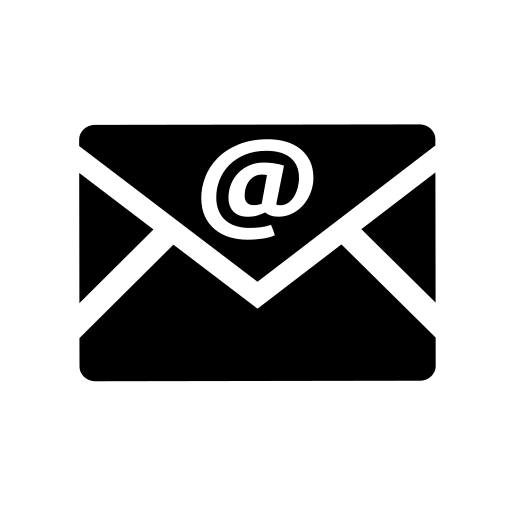
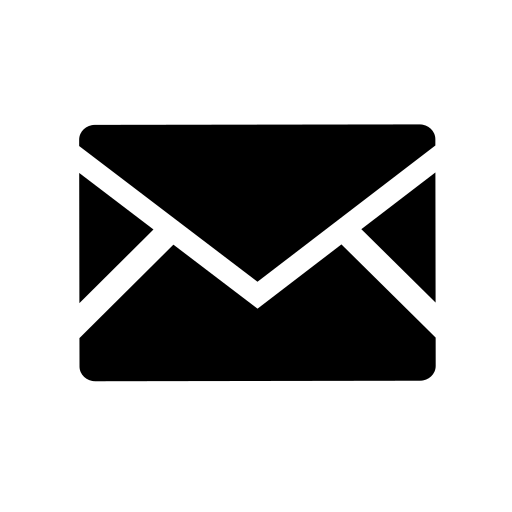
fixes

Changed region(s): [[0.375, 0.25, 0.625, 0.4688]]

diff --git a/README.md b/README.md
@@ -11,18 +11,15 @@ The seven-state trace shown in section 8.3 is captured in `state0.png` through `
 ## Cope and Drag
 To better visualize generated traces, use [Cope-and-Drag](https://drops.dagstuhl.de/entities/document/10.4230/LIPIcs.ECOOP.2025.26). Instructions for Cope-and-Drag can be found [here](https://www.siddharthaprasad.com/copeanddrag/).
 
-## Forge theme.json
-Alternatively, to use Forge's Sterling visualizer, you can use `theme.json` to organize the atoms and focus on the most relevant relations.
-
 ## Icons
 [Attachment](https://commons.wikimedia.org/wiki/File:Simpleicons_Interface_paper-clip-spiral-in-vertical-position.svg)
 [Computer](https://commons.wikimedia.org/wiki/File:Black_computer_icon.svg)
-[Drive](https://commons.wikimedia.org/wiki/File:Windows_Server_Icon_%282003-2008R2%29.svg)
+[Drive](https://commons.wikimedia.org/wiki/File:Server-file.svg)
 [Email](https://commons.wikimedia.org/wiki/File:Email_%281674%29_-_The_Noun_Project.svg)
-[EmailServer](https://commons.wikimedia.org/wiki/File:Server_-_The_Noun_Project.svg)
-[File](https://commons.wikimedia.org/wiki/File:Icon-txt.svg)
+[EmailServer](https://commons.wikimedia.org/wiki/File:Server-email.svg)
+[File](https://commons.wikimedia.org/wiki/File:Wikimedia-foundation-brand-docs-icon.png)
 [Folder](https://commons.wikimedia.org/wiki/File:Icons8_flat_opened_folder.svg)
 [Inbox](https://commons.wikimedia.org/wiki/File:Inbox_%2861580%29_-_The_Noun_Project.svg)
 [Link](https://commons.wikimedia.org/wiki/File:Simpleicons_Interface_link-symbol.svg)
-[Person](https://commons.wikimedia.org/wiki/File:Person_icon_%28based_on_Noun-Project-3797130%29.svg)
+[Person](https://commons.wikimedia.org/wiki/File:UserAvatar.svg)
 [Text](https://commons.wikimedia.org/wiki/File:Information_icon.svg)
